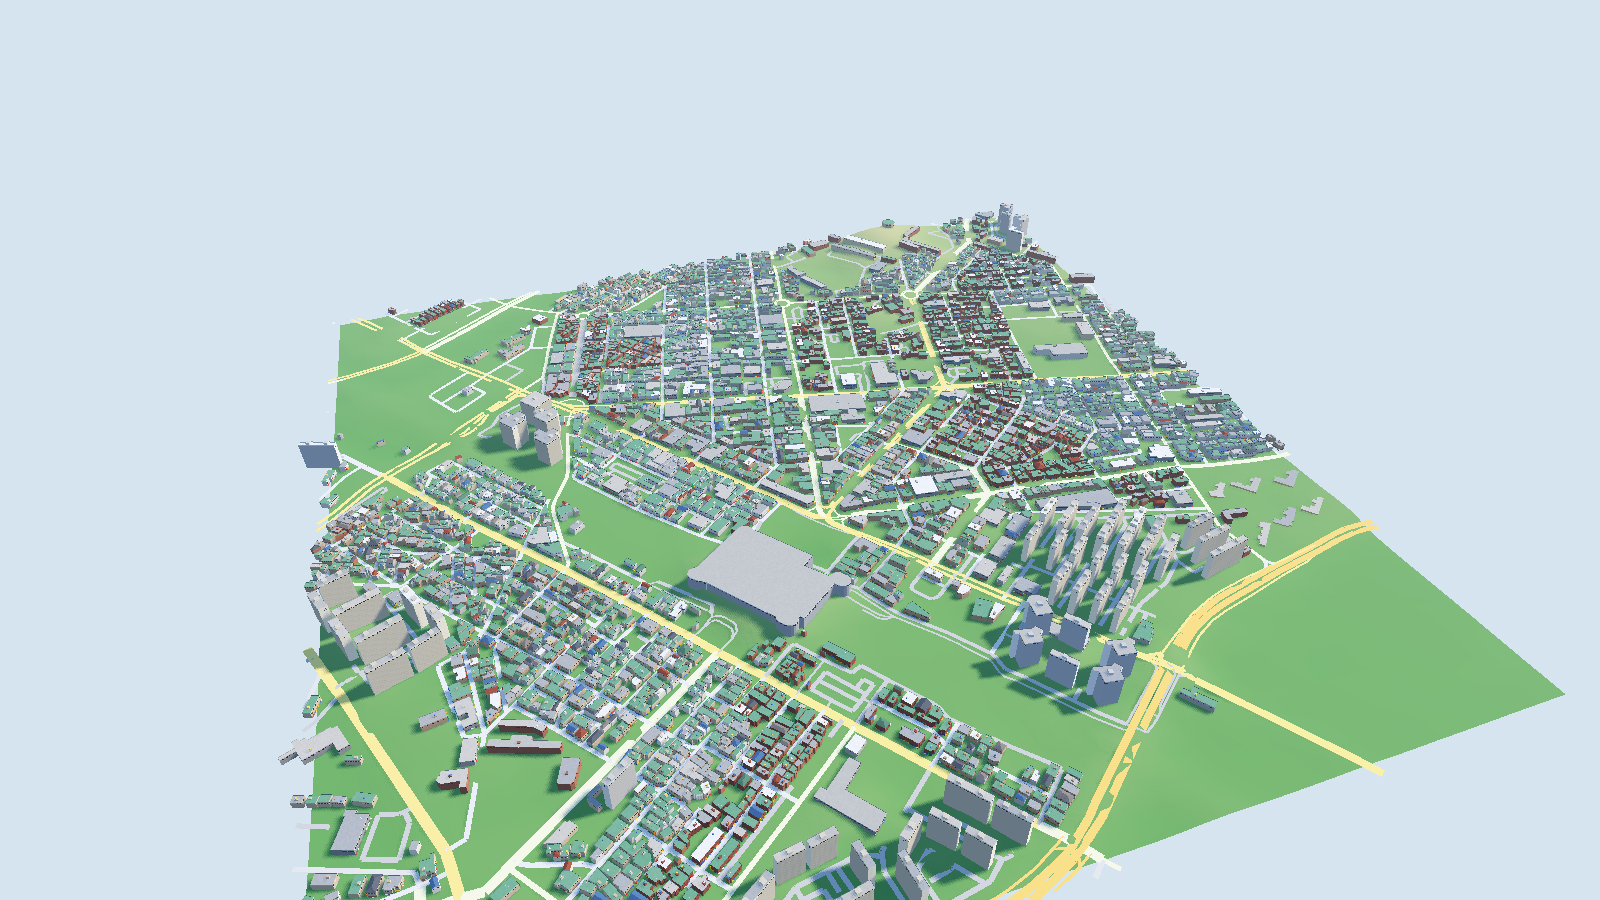
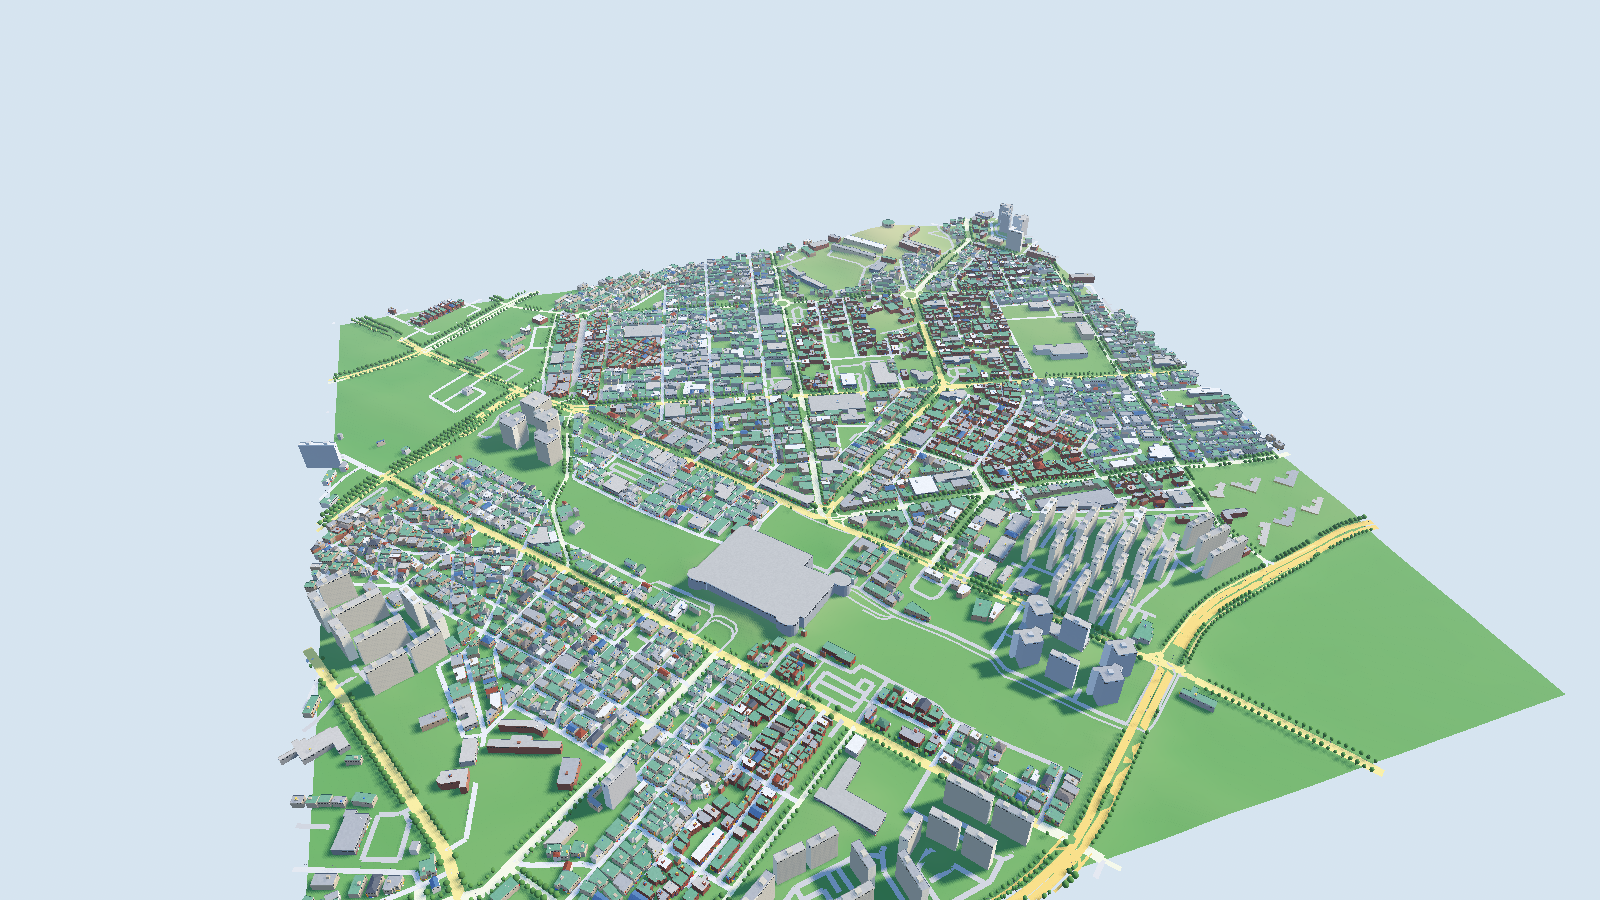
클라이언트: 가로수·가로등 절차 배치 (#64) (#66)
- scripts/streetscape.gd: 도로 등급별 간격으로 도로 양옆에 가로수(8 m)·가로등 배치,
  교차로 12 m·다른 차도·건물 안은 비움, 멀티메시로 그림
- 수종 4종(은행·버즘·느티·벚), 같은 도로 같은 수종, 계절별 잎 색·겨울 낙엽
- 밤: 등기구 발광 + 노면 불빛 원판, 해 고도(sky_light)에 맞춰 켜짐
- 도로를 그리거나 지우면 다시 배치, --view boulevard
- 근거·가정은 research-log.md#streetscape

diff --git a/docs/design/research-log.md b/docs/design/research-log.md
@@ -223,3 +223,15 @@
 - 하늘·노을 색, 밤 노출, 달빛(약한 푸른 방향광, 그림자 없음)은 눈으로 맞춘 값입니다. 창 불빛은 해 고도 6° 아래부터 켜지고, 밤에는 창 칸의 약 38%가 켜집니다 (**가정**, 통계 없음).
 - 계절 대표일: 봄 4/15, 여름 7/15, 가을 10/15, 겨울 1/15. 지형 색은 계절마다 조금 바꿉니다(가을은 누렇게). 나무·눈은 아직 없습니다.
 - 게임 안에서는 조명이 시뮬레이션 시각(`time_s`)을 따릅니다. 코어의 계절 진행 API(ADR 0007)에는 아직 "지금 계절" 값이 없어서, 계절은 K 키와 `--season`으로 고릅니다. 코어에 계절 값이 생기면 그것을 따르게 바꿉니다.
+
+## 가로수·가로등 (클라이언트 표시)
+
+<a id="streetscape"></a>
+**배치 규칙 — 간격 일부만 근거, 나머지 가정** — `client/scripts/streetscape.gd` (#64). 조사일: 2026-11-28.
+- 평택역 맵 결과: 가로수 2,641그루, 가로등 1,136개, 배치 78 ms.
+- **가로수 간격 8 m**: 전주시 조례가 권고하는 교목 식재 간격 6∼8 m, 같은 노선 같은 수종, 도로와 나란한 열식. 출처: Jeong, M.-S. & Lim, H.-J. (2019) 「도시가로녹지의 개선을 위한 녹화환경평가 연구」 *한국환경복원기술학회지* 22(3):55–71, [doi:10.13087/kosert.2019.22.3.55](https://doi.org/10.13087/kosert.2019.22.3.55). 논문은 중앙분리대 권고로 소개하고, 현장 조사도 가로수 간격 6∼8 m 기준으로 했습니다. 게임에서는 위쪽 값 8 m를 씁니다.
+- **수종 비율**: 서울 가로수 27만 5천 주 중 은행나무 42.2%, 버즘나무(플라타너스) 37.1%, 느티나무 1만 9천 주, 벚나무 1만 1천 주 ([내손안에서울, 2004-08-16](https://mediahub.seoul.go.kr/archives/144926)). 오래된 서울 통계라 평택과 다를 수 있습니다 (**가정**). 은행 46%, 버즘 40%, 느티 8%, 벚 6%로 다시 나누고, 같은 도로에는 같은 수종을 심습니다. 평택시 가로수 자료(산림청 시도별 가로수 현황, 공공데이터포털)를 받으면 바꿉니다.
+- **가로수를 심는 도로**: primary·secondary·tertiary 양쪽. residential 이하는 보도가 좁아 심지 않습니다 (**가정**). 차도 가장자리에서 2 m, 도로 끝(교차로) 12 m 안, 다른 도로 차도 위, 건물 안은 비웁니다.
+- **가로등**: KS A 3701 고속도로 설치 예는 등주 12 m, 간격 55 m, 마주보기, 팔(암) 2.8 m입니다 ([신왕수 외 2016, 전기전자재료학회논문지 29(1):62–67](http://dx.doi.org/10.4313/JKEM.2016.29.1.62)). 도시 도로 값은 근거가 없어 **가정**합니다: primary·secondary 12 m 등주 40 m 간격 양쪽 마주보기, tertiary 10 m 35 m 한쪽, residential 8 m 30 m 한쪽. 팔은 1.8 m로 짧게 둡니다.
+- 밤 불빛은 등기구 발광과 노면 위 원판(더하기 혼합)으로 흉내 냅니다. 실제 광원(OmniLight)은 수천 개라 쓰지 않습니다.
+- 계절: 봄 연두(벚나무는 분홍), 여름 짙은 녹색, 가을 은행 노랑·느티 주황·버즘 갈색·벚 빨강, 겨울은 수관을 줄이고 갈회색(낙엽).
